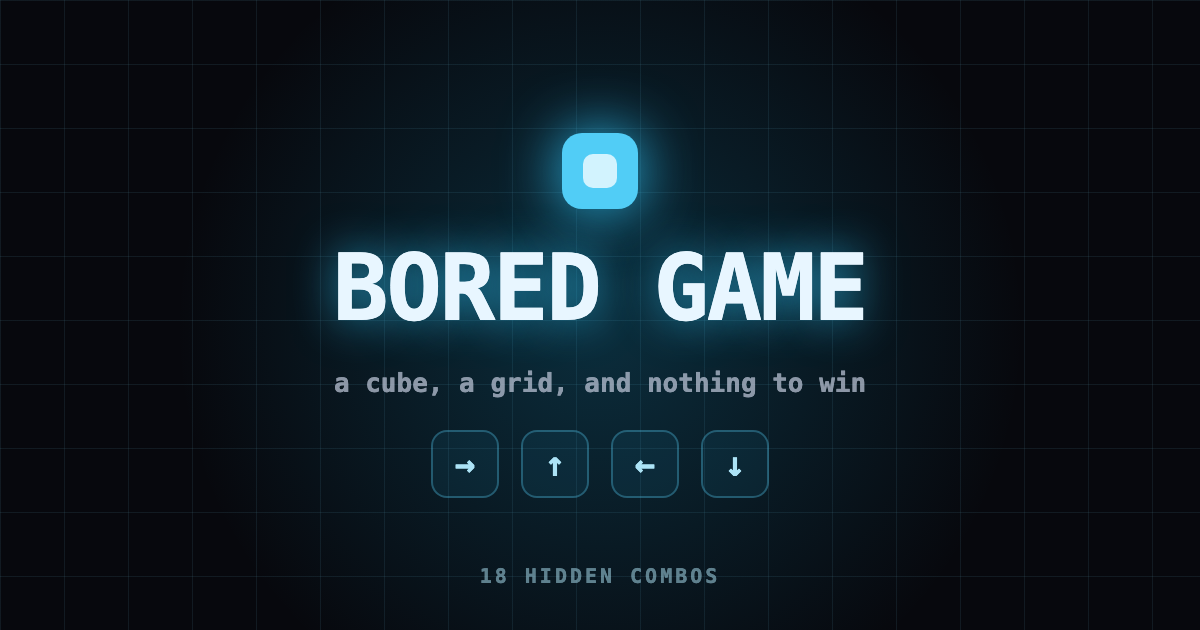
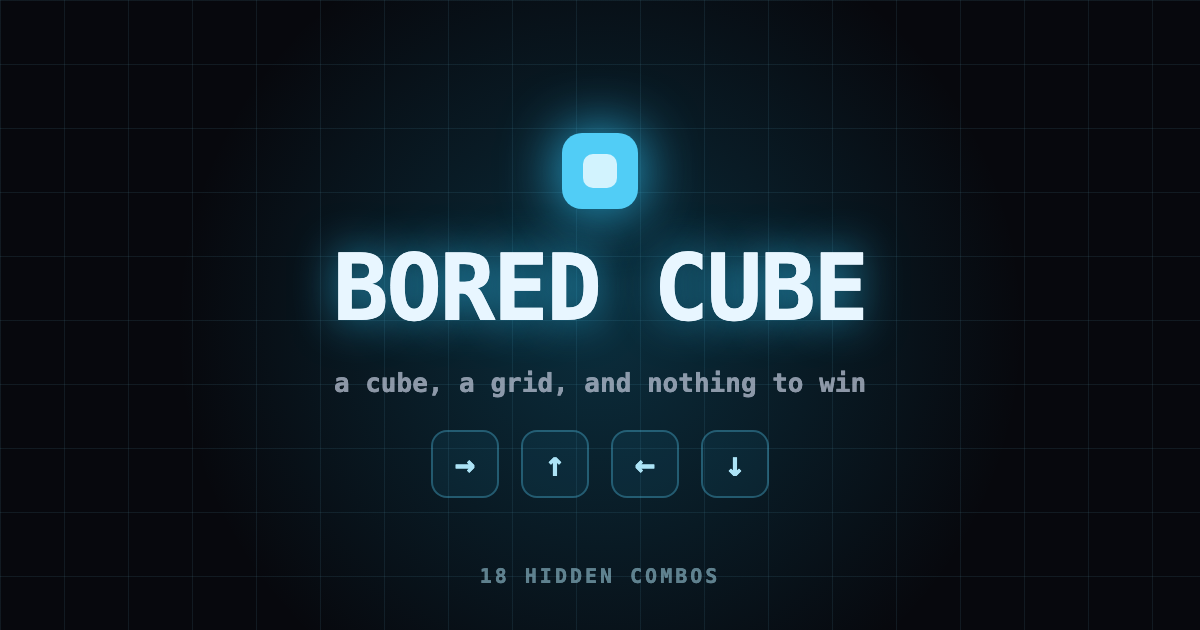
Test push but game name changed

Changed region(s): [[0.555, 0.3921, 0.6783, 0.5127]]

diff --git a/index.html b/index.html
@@ -3,7 +3,7 @@
   <head>
     <meta charset="UTF-8" />
     <meta name="viewport" content="width=device-width, initial-scale=1.0" />
-    <title>Bored Game</title>
+    <title>Bored Cube</title>
     <meta
       name="description"
       content="A cube, a grid, and nothing to win. Move with the arrow keys or a swipe and 18 named combos are hiding in the directions."
@@ -15,8 +15,8 @@
 
     <!-- Link previews. Absolute URLs are required; update these once a real domain is live. -->
     <meta property="og:type" content="website" />
-    <meta property="og:site_name" content="Bored Game" />
-    <meta property="og:title" content="Bored Game" />
+    <meta property="og:site_name" content="Bored Cube" />
+    <meta property="og:title" content="Bored Cube" />
     <meta
       property="og:description"
       content="A cube, a grid, and nothing to win. 18 named combos are hiding in the directions."
@@ -25,9 +25,9 @@
     <meta property="og:image" content="https://bored-game.pages.dev/og.png" />
     <meta property="og:image:width" content="1200" />
     <meta property="og:image:height" content="630" />
-    <meta property="og:image:alt" content="A glowing cube over a dark grid, above the words BORED GAME." />
+    <meta property="og:image:alt" content="A glowing cube over a dark grid, above the words BORED CUBE." />
     <meta name="twitter:card" content="summary_large_image" />
-    <meta name="twitter:title" content="Bored Game" />
+    <meta name="twitter:title" content="Bored Cube" />
     <meta
       name="twitter:description"
       content="A cube, a grid, and nothing to win. 18 named combos are hiding in the directions."

diff --git a/tools/og-card.html b/tools/og-card.html
@@ -102,7 +102,7 @@
     <div class="glow"></div>
     <div class="stack">
       <div class="cube"><i></i></div>
-      <h1>BORED GAME</h1>
+      <h1>BORED CUBE</h1>
       <p>a cube, a grid, and nothing to win</p>
       <div class="arrows"><span>→</span><span>↑</span><span>←</span><span>↓</span></div>
     </div>

diff --git a/src/game/render.ts b/src/game/render.ts
@@ -505,7 +505,7 @@ function drawTitle(
   ctx.shadowBlur = 30;
   ctx.fillStyle = hsl(hue, 92, 76);
   ctx.font = font(titleSize, 800);
-  ctx.fillText('BORED GAME', 0, -56);
+  ctx.fillText('BORED CUBE', 0, -56);
   ctx.shadowBlur = 0;
 
   ctx.fillStyle = 'hsl(220 25% 78% / 0.7)';

diff --git a/README.md b/README.md
@@ -1,4 +1,4 @@
-# bored game
+# Bored Cube
 
 An arrow-key stim toy for the browser. You are a cube on an endless grid. Every
 press does something satisfying, and certain sequences are secretly named combos
@@ -17,6 +17,11 @@ npm run dev
 ```
 
 Then open **http://localhost:5173** and start pressing arrows.
+
+The repository, the npm package directory, and the `localStorage` key still use
+the old `bored-game` spelling. The repo name is fixed on GitHub's side, and
+renaming the storage key would wipe everyone's saved stats, so both stay put —
+only the name people see says **Bored Cube**.
 
 Requires Node 18 or newer (developed on Node 25). No other tooling needed.
 
